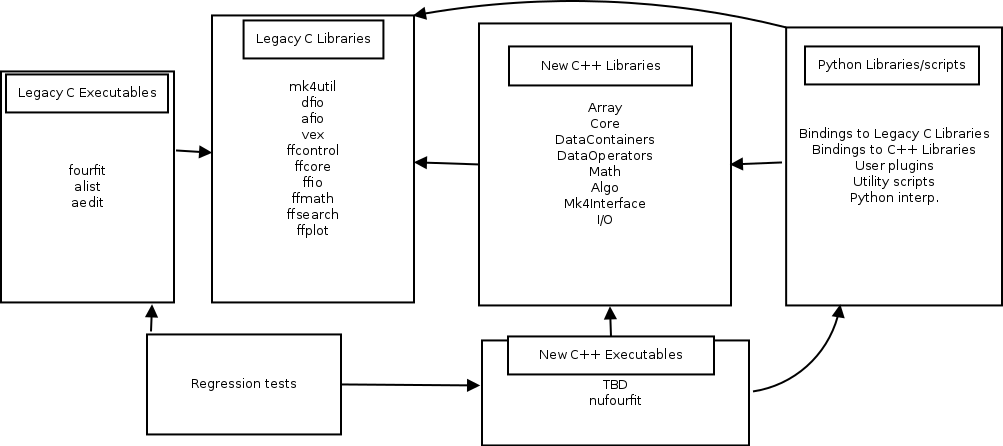
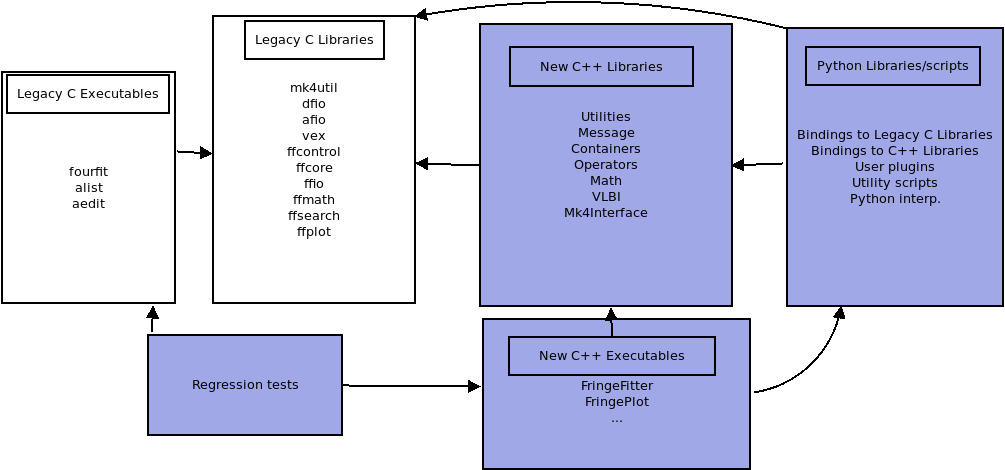
some doc updates

diff --git a/doc/specification/hops-spec.tex b/doc/specification/hops-spec.tex
@@ -441,7 +441,7 @@ An additional set of plugin libraries will be enabled if the appropriate depende
 \begin{figure}[h!]
 \begin{center}
   \includegraphics[width=0.95\textwidth]{arch_overview.png}
-    \caption{Basic overview of library and executable dependency architecture.}
+    \caption{Basic overview of library and executable dependency architecture. Arrows indicate direction of dependency (from child to parent). Shaded boxes are new to-be-developed software.}
     \label{fig:lib-arch}
 \end{center}
 \end{figure}
